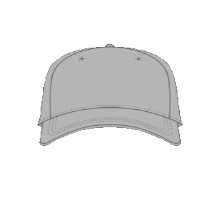
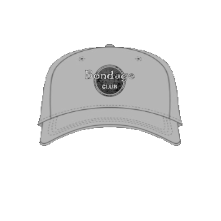
Added default colors to ballcap
also updated front cap preview to not be blank

Changed region(s): [[0.3801, 0.2715, 0.6244, 0.4615]]

diff --git a/BondageClub/Assets/Female3DCG/Female3DCG.js b/BondageClub/Assets/Female3DCG/Female3DCG.js
@@ -1441,10 +1441,10 @@ var AssetFemale3DCG = [
 				],
 			},
 			{
-				Name: "BallCapBack", Value: -1, Left: 150, Top: 45, BuyGroup: "BallCap", Extended: true, Layer: [
-					{ Name: "Button", HasType: false },
+				Name: "BallCapBack", Value: -1, Left: 150, Top: 45, BuyGroup: "BallCap", DefaultColor: ["#3B3B3B", "#CCCC32", "#424242", "#3B3B3B"], Extended: true, Layer: [
 					{ Name: "PanelLeft", HasType: false },
 					{ Name: "PanelRight", CopyLayerColor: "PanelLeft", HasType: false },
+					{ Name: "Button", HasType: false },
 					{ Name: "SideLeft", HasType: false },
 					{ Name: "SideRight", CopyLayerColor: "SideLeft", HasType: false },
 					{ Name: "Strap", Priority: 55, AllowTypes: ["StrapOver"], HasType: false },
@@ -1452,7 +1452,7 @@ var AssetFemale3DCG = [
 				],
 			},
 			{
-				Name: "BallCapFront", Value: 30, Left: 150, Top: 45, BuyGroup: "BallCap", Extended: true, Layer: [
+				Name: "BallCapFront", Value: 30, Left: 150, Top: 45, BuyGroup: "BallCap", DefaultColor:["#3B3B3B", "#CCCC32", "#424242", "Default"], Extended: true, Layer: [
 					{ Name: "Panel", HasType: false },
 					{ Name: "PanelLeft", CopyLayerColor: "Panel", HasType: false },
 					{ Name: "PanelRight", CopyLayerColor: "Panel", HasType: false },
